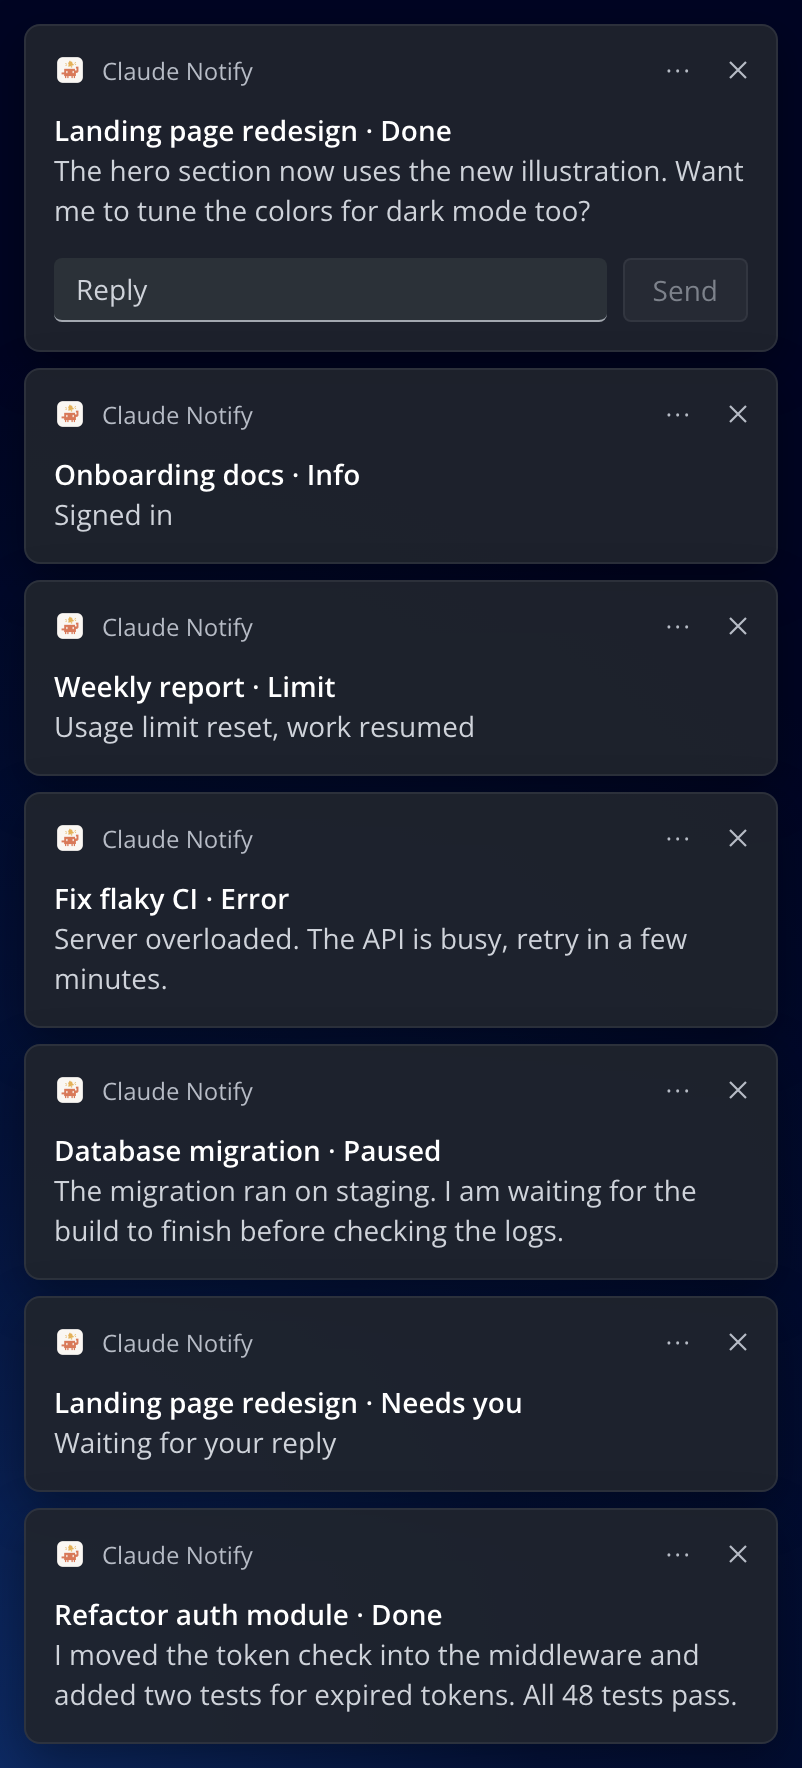
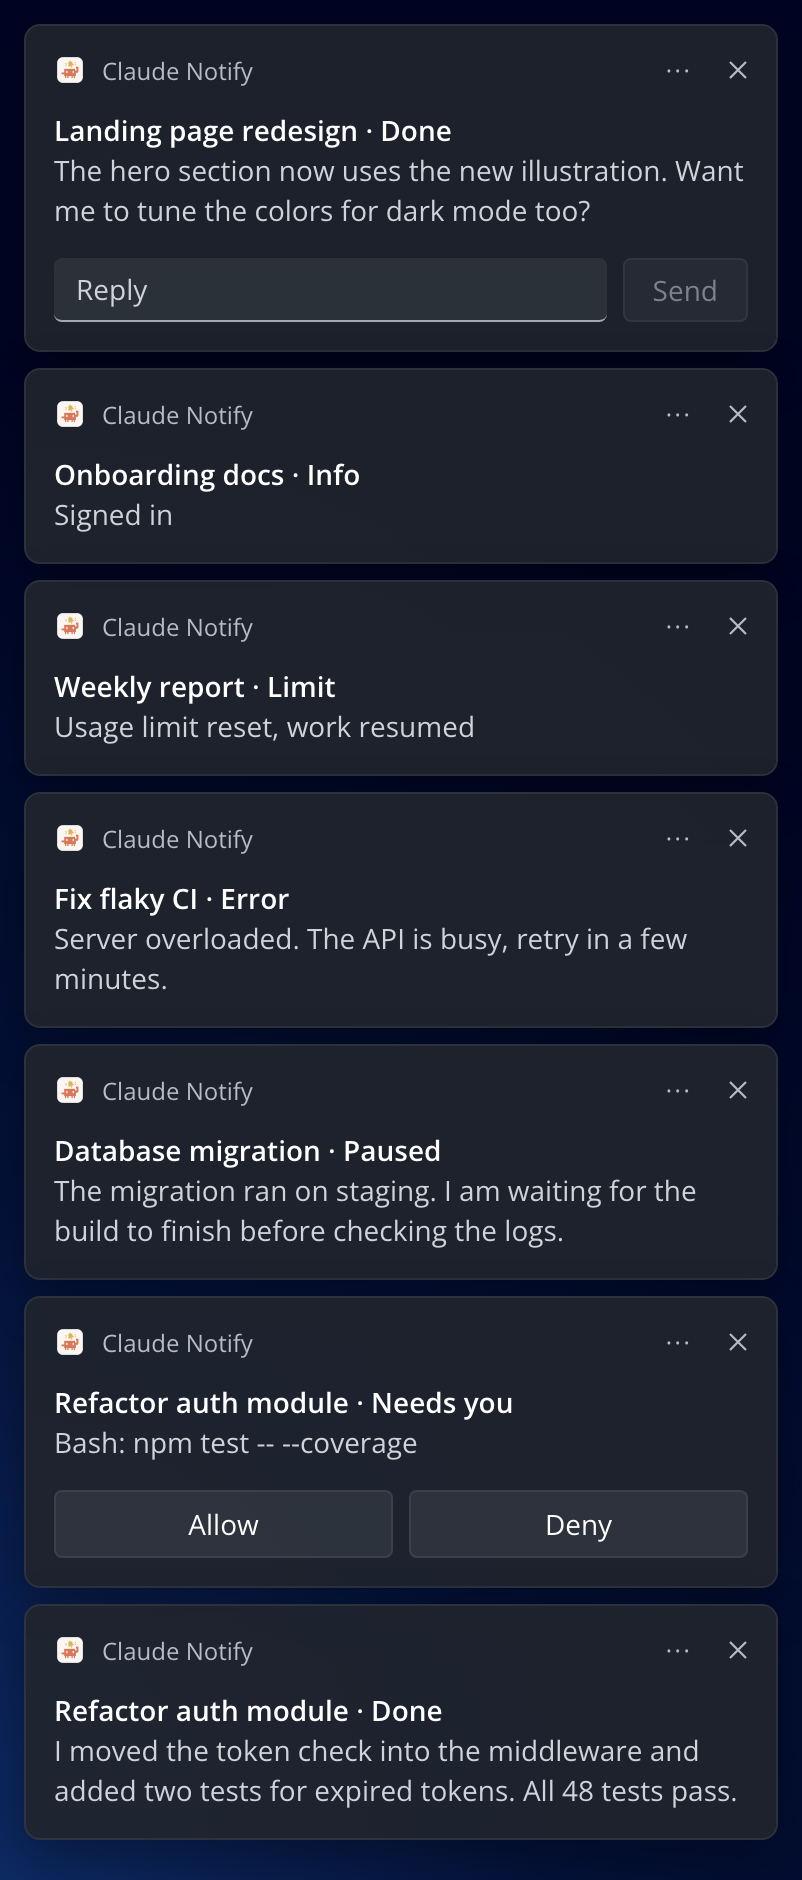
Draw both README mockups in HTML at the same size, with Allow and Deny

diff --git a/assets/demo/windows.html b/assets/demo/windows.html
@@ -1,0 +1,117 @@
+<!doctype html>
+<!-- Mockup for the README. Render: Chrome --headless=new --hide-scrollbars --force-device-scale-factor=2 --window-size=401,940 --screenshot=windows-stack.png windows.html -->
+<html lang="en">
+<head>
+<meta charset="utf-8">
+<title>Windows notifications</title>
+<link rel="stylesheet" href="https://fonts.googleapis.com/css2?family=Open+Sans:wght@400;600&display=block">
+<style>
+  :root {
+    --card: rgba(32, 36, 44, 0.92);
+    --card-border: rgba(255, 255, 255, 0.07);
+    --text: #ffffff;
+    --body: #cfd3da;
+    --dim: #b7bcc6;
+    --field: #2b3138;
+    --field-line: #a3a8b0;
+  }
+  html, body { margin: 0; }
+  body { min-height: 100vh;
+    width: 401px;
+    background: radial-gradient(120% 80% at 0% 100%, #0d2a63 0%, #04123a 45%, #000523 100%);
+    font-family: "Segoe UI Variable Text", "Segoe UI", "Open Sans", sans-serif;
+    -webkit-font-smoothing: antialiased;
+  }
+  .stack { display: flex; flex-direction: column; gap: 8px; padding: 12px; }
+  .toast {
+    background: var(--card);
+    border: 1px solid var(--card-border);
+    border-radius: 8px;
+    padding: 12px 14px 14px;
+    box-shadow: 0 8px 24px rgba(0, 0, 0, 0.35);
+  }
+  .head { display: flex; align-items: center; gap: 8px; height: 20px; margin-bottom: 10px; }
+  .head img { width: 16px; height: 16px; border-radius: 3px; }
+  .app { font-size: 12px; color: var(--dim); flex: 1; }
+  .ctl { display: flex; align-items: center; gap: 18px; color: var(--dim); }
+  .more { font-size: 13px; letter-spacing: 1px; line-height: 1; }
+  .title { font-size: 14px; font-weight: 600; color: var(--text); line-height: 20px; }
+  .body { font-size: 14px; color: var(--body); line-height: 20px; }
+  .reply { display: flex; gap: 8px; margin-top: 14px; }
+  .field {
+    flex: 1; height: 32px; box-sizing: border-box; padding: 0 11px;
+    display: flex; align-items: center;
+    background: var(--field); border-radius: 4px; border-bottom: 1px solid var(--field-line);
+    font-size: 14px; color: var(--body);
+  }
+  .send {
+    height: 32px; padding: 0 14px; box-sizing: border-box;
+    display: flex; align-items: center;
+    background: rgba(255, 255, 255, 0.04); border: 1px solid rgba(255, 255, 255, 0.06); border-radius: 4px;
+    font-size: 14px; color: #7d828b;
+  }
+  .actions { display: grid; grid-template-columns: repeat(2, minmax(0, 1fr)); gap: 8px; margin-top: 14px; }
+  .btn {
+    height: 32px; display: flex; align-items: center; justify-content: center;
+    background: rgba(255, 255, 255, 0.07); border: 1px solid rgba(255, 255, 255, 0.07); border-radius: 4px;
+    font-size: 14px; color: var(--text);
+  }
+</style>
+</head>
+<body>
+<div class="stack">
+
+  <div class="toast">
+    <div class="head"><img src="../icon/app-icon.png" alt=""><span class="app">Claude Notify</span>
+      <span class="ctl"><span class="more">···</span><svg width="10" height="10" viewBox="0 0 10 10" aria-hidden="true"><path d="M1 1l8 8M9 1l-8 8" stroke="currentColor" stroke-width="1.1"/></svg></span></div>
+    <div class="title">Landing page redesign · Done</div>
+    <div class="body">The hero section now uses the new illustration. Want me to tune the colors for dark mode too?</div>
+    <div class="reply"><div class="field">Reply</div><div class="send">Send</div></div>
+  </div>
+
+  <div class="toast">
+    <div class="head"><img src="../icon/app-icon.png" alt=""><span class="app">Claude Notify</span>
+      <span class="ctl"><span class="more">···</span><svg width="10" height="10" viewBox="0 0 10 10" aria-hidden="true"><path d="M1 1l8 8M9 1l-8 8" stroke="currentColor" stroke-width="1.1"/></svg></span></div>
+    <div class="title">Onboarding docs · Info</div>
+    <div class="body">Signed in</div>
+  </div>
+
+  <div class="toast">
+    <div class="head"><img src="../icon/app-icon.png" alt=""><span class="app">Claude Notify</span>
+      <span class="ctl"><span class="more">···</span><svg width="10" height="10" viewBox="0 0 10 10" aria-hidden="true"><path d="M1 1l8 8M9 1l-8 8" stroke="currentColor" stroke-width="1.1"/></svg></span></div>
+    <div class="title">Weekly report · Limit</div>
+    <div class="body">Usage limit reset, work resumed</div>
+  </div>
+
+  <div class="toast">
+    <div class="head"><img src="../icon/app-icon.png" alt=""><span class="app">Claude Notify</span>
+      <span class="ctl"><span class="more">···</span><svg width="10" height="10" viewBox="0 0 10 10" aria-hidden="true"><path d="M1 1l8 8M9 1l-8 8" stroke="currentColor" stroke-width="1.1"/></svg></span></div>
+    <div class="title">Fix flaky CI · Error</div>
+    <div class="body">Server overloaded. The API is busy, retry in a few minutes.</div>
+  </div>
+
+  <div class="toast">
+    <div class="head"><img src="../icon/app-icon.png" alt=""><span class="app">Claude Notify</span>
+      <span class="ctl"><span class="more">···</span><svg width="10" height="10" viewBox="0 0 10 10" aria-hidden="true"><path d="M1 1l8 8M9 1l-8 8" stroke="currentColor" stroke-width="1.1"/></svg></span></div>
+    <div class="title">Database migration · Paused</div>
+    <div class="body">The migration ran on staging. I am waiting for the build to finish before checking the logs.</div>
+  </div>
+
+  <div class="toast">
+    <div class="head"><img src="../icon/app-icon.png" alt=""><span class="app">Claude Notify</span>
+      <span class="ctl"><span class="more">···</span><svg width="10" height="10" viewBox="0 0 10 10" aria-hidden="true"><path d="M1 1l8 8M9 1l-8 8" stroke="currentColor" stroke-width="1.1"/></svg></span></div>
+    <div class="title">Refactor auth module · Needs you</div>
+    <div class="body">Bash: npm test -- --coverage</div>
+    <div class="actions"><div class="btn">Allow</div><div class="btn">Deny</div></div>
+  </div>
+
+  <div class="toast">
+    <div class="head"><img src="../icon/app-icon.png" alt=""><span class="app">Claude Notify</span>
+      <span class="ctl"><span class="more">···</span><svg width="10" height="10" viewBox="0 0 10 10" aria-hidden="true"><path d="M1 1l8 8M9 1l-8 8" stroke="currentColor" stroke-width="1.1"/></svg></span></div>
+    <div class="title">Refactor auth module · Done</div>
+    <div class="body">I moved the token check into the middleware and added two tests for expired tokens. All 48 tests pass.</div>
+  </div>
+
+</div>
+</body>
+</html>

diff --git a/assets/demo/macos.html b/assets/demo/macos.html
@@ -1,0 +1,92 @@
+<!doctype html>
+<!-- Mockup for the README. Render: Chrome --headless=new --hide-scrollbars --force-device-scale-factor=2 --window-size=401,940 --screenshot=macos-stack.png macos.html -->
+<html lang="en">
+<head>
+<meta charset="utf-8">
+<title>macOS notifications</title>
+<style>
+  :root {
+    --card: rgba(30, 36, 50, 0.82);
+    --card-border: rgba(255, 255, 255, 0.10);
+    --text: #f2f3f5;
+    --body: #dddee0;
+    --field: #3c4355;
+    --muted: #9a9ca0;
+  }
+  html, body { margin: 0; }
+  body {
+    width: 401px; min-height: 100vh;
+    background:
+      radial-gradient(90% 60% at 100% 100%, #5b4a3b 0%, rgba(91, 74, 59, 0) 70%),
+      radial-gradient(120% 90% at 0% 45%, #0a3a7a 0%, #04204a 40%, #07111d 100%);
+    font-family: -apple-system, "SF Pro Text", "Helvetica Neue", sans-serif;
+    -webkit-font-smoothing: antialiased;
+  }
+  .wrap { padding: 14px 12px 12px; }
+  .top { display: flex; align-items: center; gap: 8px; padding: 0 4px 12px; }
+  .top h1 { margin: 0; flex: 1; font-size: 15px; font-weight: 700; color: var(--text); }
+  .pill { height: 20px; padding: 0 10px; border-radius: 10px; display: flex; align-items: center;
+          background: rgba(120, 125, 135, 0.45); color: #e4e5e8; font-size: 11px; }
+  .x { width: 20px; height: 20px; border-radius: 50%; display: flex; align-items: center; justify-content: center;
+       background: rgba(120, 125, 135, 0.45); color: #e4e5e8; }
+  .stack { display: flex; flex-direction: column; gap: 8px; }
+  .card {
+    position: relative; display: flex; gap: 10px; padding: 12px 14px 12px 12px;
+    background: var(--card); border: 1px solid var(--card-border); border-radius: 18px;
+    box-shadow: 0 4px 16px rgba(0, 0, 0, 0.25);
+  }
+  .card img { width: 32px; height: 32px; border-radius: 8px; flex: none; margin-top: 1px; }
+  .txt { flex: 1; min-width: 0; }
+  .title { font-size: 13px; font-weight: 700; color: var(--text); line-height: 17px; }
+  .body { font-size: 13px; color: var(--body); line-height: 17px; }
+  .corner { position: absolute; top: 9px; right: 12px; display: flex; gap: 8px; color: var(--muted); font-size: 12px; line-height: 1; }
+  .reply { margin: 14px -2px 0 -44px; border-top: 1px solid rgba(255, 255, 255, 0.08); padding-top: 12px; }
+  .field { height: 26px; border-radius: 7px; background: var(--field); border: 1px solid rgba(255, 255, 255, 0.10);
+           display: flex; align-items: center; padding: 0 10px; font-size: 13px; color: var(--muted); }
+  .send { text-align: center; font-size: 13px; color: #7f828a; margin-top: 10px; }
+  .actions { display: grid; grid-template-columns: repeat(2, minmax(0, 1fr)); gap: 8px; }
+  .btn { height: 28px; border-radius: 8px; background: var(--field); border: 1px solid rgba(255, 255, 255, 0.10);
+         display: flex; align-items: center; justify-content: center; font-size: 13px; font-weight: 500; color: var(--text); }
+</style>
+</head>
+<body>
+<div class="wrap">
+  <div class="top">
+    <h1>Claude Notify</h1>
+    <span class="pill">Show less</span>
+    <span class="x"><svg width="8" height="8" viewBox="0 0 8 8" aria-hidden="true"><path d="M1 1l6 6M7 1l-6 6" stroke="currentColor" stroke-width="1.4" stroke-linecap="round"/></svg></span>
+  </div>
+
+  <div class="stack">
+    <div class="card">
+      <img src="../icon/app-icon.png" alt="">
+      <div class="txt">
+        <div class="title">Landing page redesign · Done</div>
+        <div class="body">The hero section now uses the new illustration. Want me to tune the colors for dark mode too?</div>
+        <div class="reply"><div class="field">Message Claude…</div><div class="send">Send</div></div>
+      </div>
+      <div class="corner"><span>···</span><svg width="10" height="10" viewBox="0 0 10 10" aria-hidden="true"><path d="M2 3.5l3 3 3-3" fill="none" stroke="currentColor" stroke-width="1.3" stroke-linecap="round"/></svg></div>
+    </div>
+
+    <div class="card"><img src="../icon/app-icon.png" alt=""><div class="txt">
+      <div class="title">Onboarding docs · Info</div><div class="body">Signed in</div></div></div>
+
+    <div class="card"><img src="../icon/app-icon.png" alt=""><div class="txt">
+      <div class="title">Weekly report · Limit</div><div class="body">Usage limit reset, work resumed</div></div></div>
+
+    <div class="card"><img src="../icon/app-icon.png" alt=""><div class="txt">
+      <div class="title">Fix flaky CI · Error</div><div class="body">Server overloaded. The API is busy, retry in a few minutes.</div></div></div>
+
+    <div class="card"><img src="../icon/app-icon.png" alt=""><div class="txt">
+      <div class="title">Database migration · Paused</div><div class="body">The migration ran on staging. I am waiting for the build to finish before checking the logs.</div></div></div>
+
+    <div class="card"><img src="../icon/app-icon.png" alt=""><div class="txt">
+      <div class="title">Refactor auth module · Needs you</div><div class="body">Bash: npm test -- --coverage</div>
+      <div class="reply actions"><div class="btn">Allow</div><div class="btn">Deny</div></div></div></div>
+
+    <div class="card"><img src="../icon/app-icon.png" alt=""><div class="txt">
+      <div class="title">Refactor auth module · Done</div><div class="body">I moved the token check into the middleware and added two tests for expired tokens. All 48 tests pass.</div></div></div>
+  </div>
+</div>
+</body>
+</html>

diff --git a/README.md b/README.md
@@ -26,8 +26,8 @@ Claude Code works for minutes at a time, and you probably don't sit and watch it
     <th>Windows</th>
   </tr>
   <tr>
-    <td valign="top"><img src="assets/demo/macos-stack.png" alt="macOS Notification Center with one Claude Notify notification per group: Done with a Reply field, Info, Limit, Error, Paused, Needs you and Done" width="360"></td>
-    <td valign="top"><img src="assets/demo/windows-stack.png" alt="Windows toasts from Claude Notify, one per group: Done with a Reply field, Info, Limit, Error, Paused, Needs you and Done" width="360"></td>
+    <td valign="top"><img src="assets/demo/macos-stack.png" alt="macOS notifications from Claude Notify, one per group: Done with a Reply field, Info, Limit, Error, Paused, Needs you with Allow and Deny, and Done" width="360"></td>
+    <td valign="top"><img src="assets/demo/windows-stack.png" alt="Windows toasts from Claude Notify, one per group: Done with a Reply field, Info, Limit, Error, Paused, Needs you with Allow and Deny, and Done" width="360"></td>
   </tr>
 </table>
 
